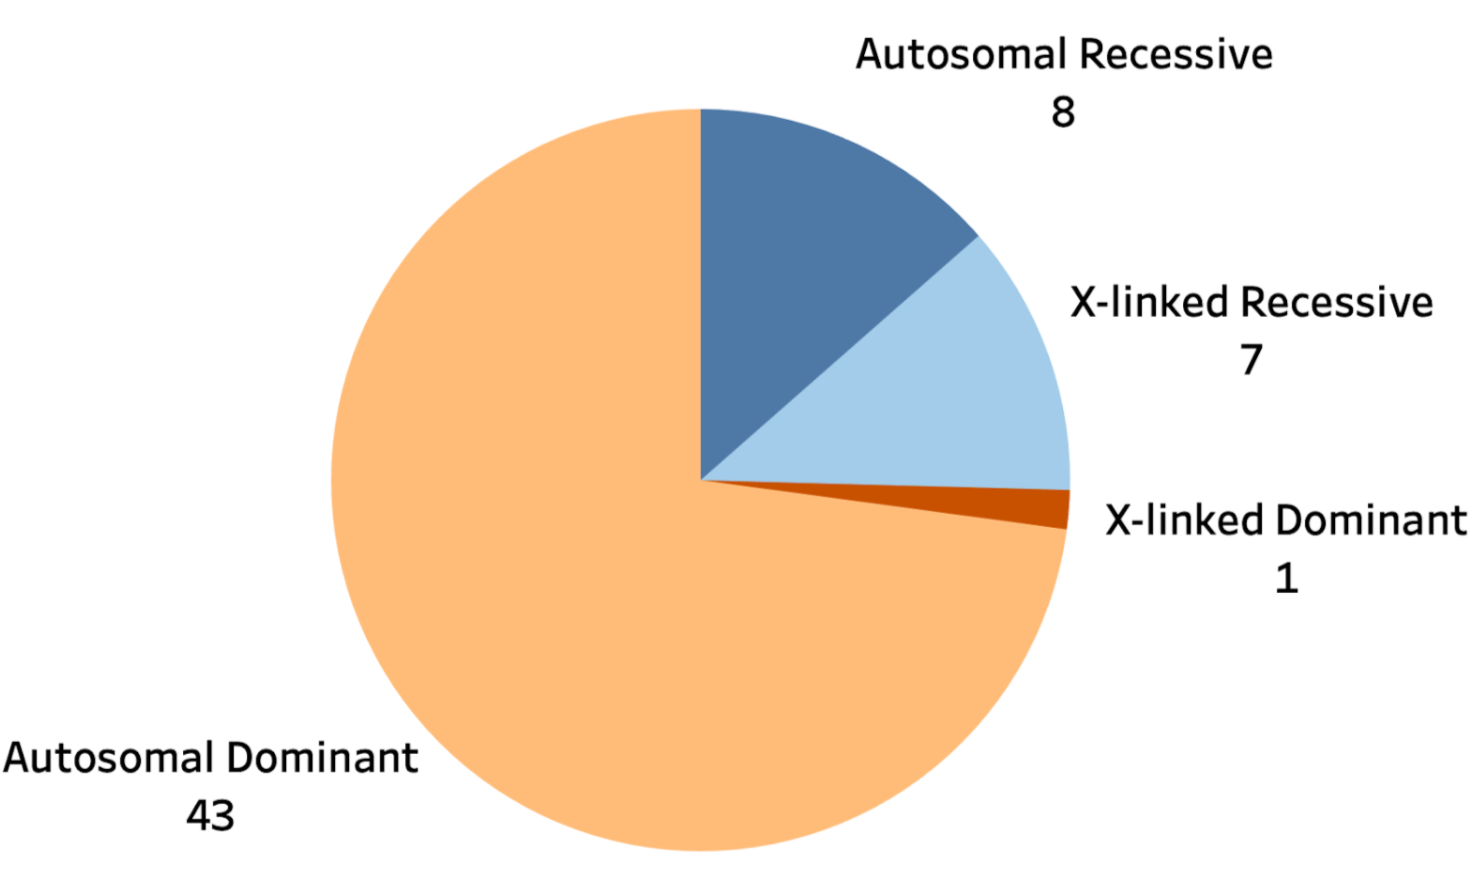
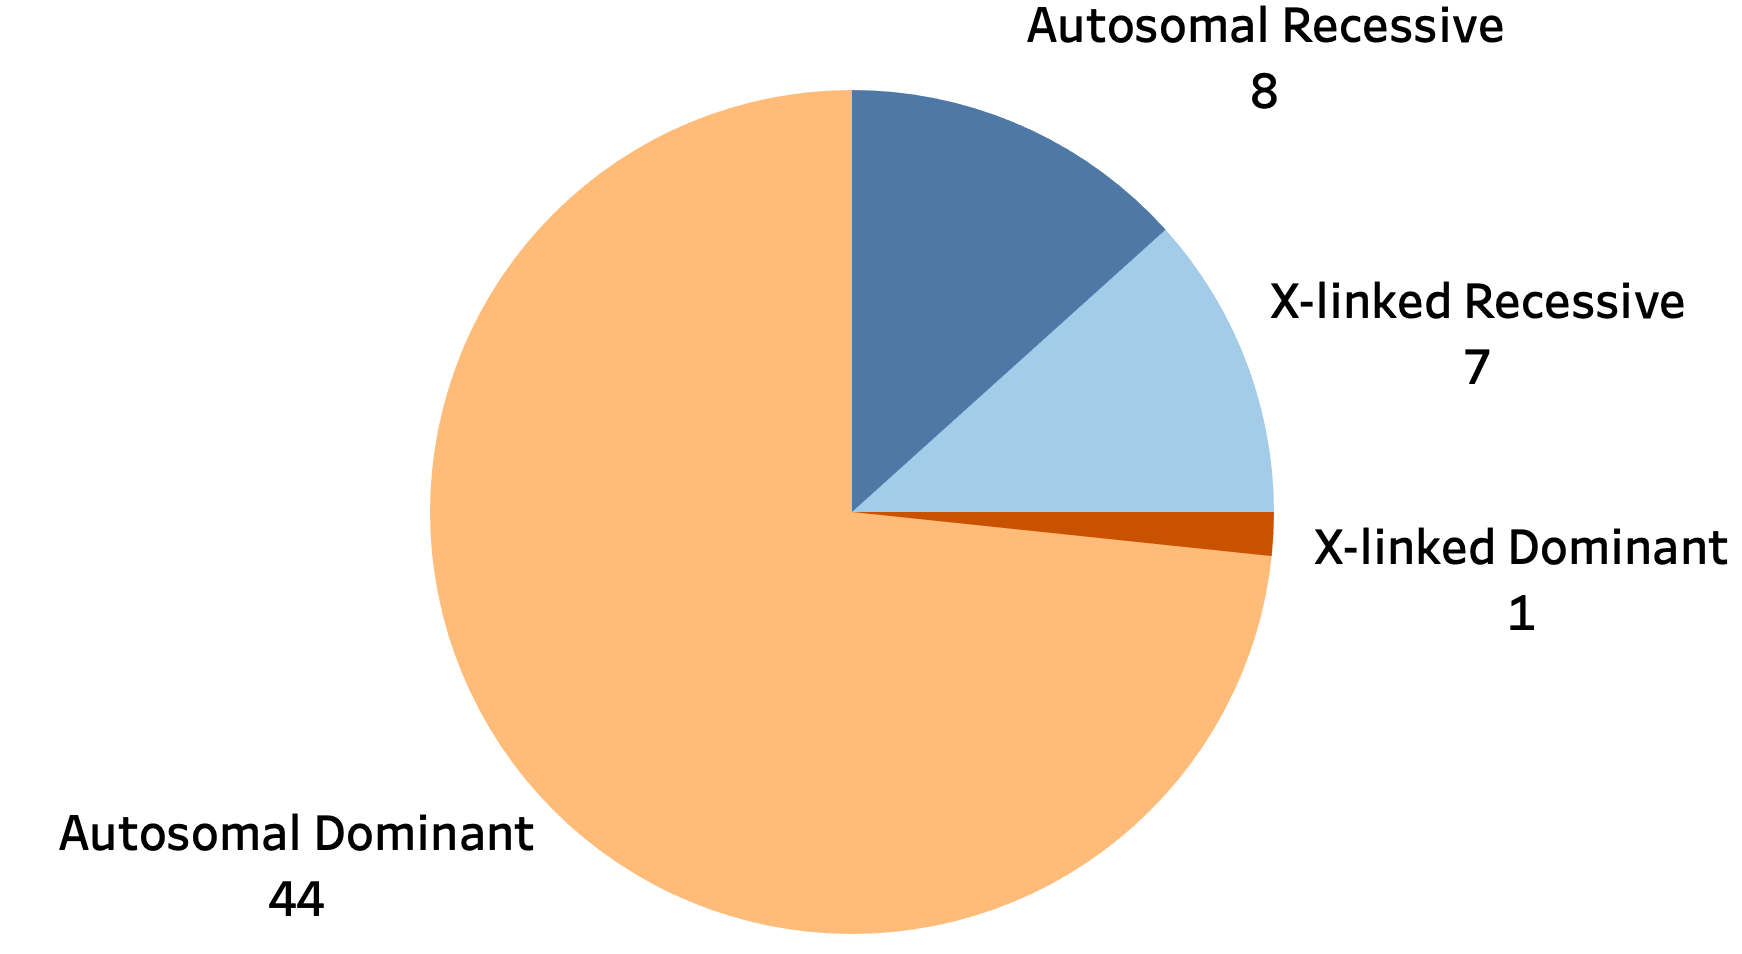
Update Post “2022-01-the-addition-of-short-tandem-repeat-calls-to-gnomad” (#71)

diff --git a/content/posts/2022-01-the-addition-of-short-tandem-repeat-calls-to-gnomad.md b/content/posts/2022-01-the-addition-of-short-tandem-repeat-calls-to-gnomad.md
@@ -1,5 +1,5 @@
 ---
-title: The Addition of Short Tandem Repeat Calls to gnomAD
+title: The Addition of Short Tandem Repeat Calls to gnomAD (v3.1.3)
 date: 2022-01-21
 order: 1
 categories:
@@ -11,14 +11,14 @@ authors:
 ---
 ### Overview
 
-We have generated short tandem repeat (STR) calls for 59 disease associated loci by running ExpansionHunter [[Dolzhenko 2019](https://academic.oup.com/bioinformatics/article/35/22/4754/5499079)] on 19,241 whole genome samples from gnomAD v3.1.
+We ran ExpansionHunter [[Dolzhenko 2019](https://academic.oup.com/bioinformatics/article/35/22/4754/5499079)] on 18,511 whole genome samples from gnomAD v3.1 to generate  calls for 60 disease associated repeat loci. These include 56 loci that have motifs between 3 and 6bp long and   are traditionally called short tandem repeats (STRs), as well as 4 other loci with longer motifs of between 10 and 24bp. For brevity, we refer to all 60 loci as "STRs" below. 
 
-This release includes:
+This minor release includes:
 
 * Distributions of STR genotypes in the general population, with subsets by ancestry group and sex
-* Visualizations of the read data for all samples at all 59 loci
+* Visualizations of the read data for all samples at all 60 loci
 * Collected reference information including disease associations and inheritance modes
-* [Downloadable variant catalogs](https://github.com/broadinstitute/str-analysis/tree/main/str_analysis/variant_catalogs) for running ExpansionHunter on these 59 loci for either GRCh38 or GRCh37, with or without off-target regions
+* [Downloadable variant catalogs](https://github.com/broadinstitute/str-analysis/tree/main/str_analysis/variant_catalogs) for running ExpansionHunter on these 60 loci for either GRCh38 or GRCh37, with or without off-target regions
 * A specialized approach for calling loci such as *RFC1* where the pathogenic motif(s) differ from the motif in the reference genome
 * [Downloadable data table](https://gnomad.broadinstitute.org/downloads#v3-short-tandem-repeats) containing all results displayed in the browser, as well as additional results such as genotypes generated using off-target regions
 
@@ -32,30 +32,30 @@ Short tandem repeats (STRs) are nucleotide sequences that consist of a short mot
 
 ### Disease-Associated Loci
 
-We collected and curated known pathogenic loci from sources such as [[Depienne 2021](https://pubmed.ncbi.nlm.nih.gov/33811808/)], [STRipy](https://stripy.org/database), [OMIM](https://www.omim.org/), and [GeneReviews](https://www.ncbi.nlm.nih.gov/books/NBK1116/). This yielded a catalog of 59 unique loci with the following characteristics:
+We collected and curated known pathogenic loci from sources such as [[Depienne 2021](https://pubmed.ncbi.nlm.nih.gov/33811808/)], [STRipy](https://stripy.org/database), [OMIM](https://www.omim.org/), and [GeneReviews](https://www.ncbi.nlm.nih.gov/books/NBK1116/). This yielded a catalog of 60 unique loci with the following characteristics:
 
 <figure>
-   <figcaption>STR Loci Inheritance Modes</figcaption>
+   <figcaption>Locus Inheritance Modes</figcaption>
    <img alt="STR Loci Inheritance Modes" src="../images/2022/01/str_inheritance_mode_pie_chart.png" height=280/>
 </figure>
 
 <figure>
-   <figcaption>STR Loci Genomic Regions</figcaption>
+   <figcaption>Locus Genomic Regions</figcaption>
    <img alt="STR Loci Genomic Regions" src="../images/2022/01/str_genomic_region_pie_chart.png" height=300 />
 </figure>
 
 <figure>
-   <figcaption>STR Loci Motif Sizes</figcaption>
+   <figcaption>Locus Motif Sizes</figcaption>
    <img alt="STR Loci Motif Sizes" src="../images/2022/01/str_motif_length_histogram.png" width=480 />
 </figure>
 
 ### Technical Details
 
-To genotype the 59 STR loci with disease associations, we chose to use ExpansionHunter [[Dolzhenko 2017](https://www.ncbi.nlm.nih.gov/pmc/articles/PMC5668946/)] because 1) we found that it had the best accuracy among existing tools for detecting expansions at disease-associated loci across a wide range of repeat sizes — both shorter and longer than read length, and 2) it’s now widely used for STR research and diagnosis in rare disease cohorts, including in [[Ibanez 2020](https://www.biorxiv.org/content/10.1101/2020.11.06.371716v1)], [[Stranneheim 2021](https://genomemedicine.biomedcentral.com/articles/10.1186/s13073-021-00855-5)], [[van der Sanden 2021](https://pubmed.ncbi.nlm.nih.gov/33846582/)].
+To genotype the 60 disease-associated repeat loci, we chose to use ExpansionHunter [[Dolzhenko 2017](https://www.ncbi.nlm.nih.gov/pmc/articles/PMC5668946/)] because 1) we found that it had the best accuracy among existing tools for detecting expansions at disease-associated loci across a wide range of repeat sizes — both shorter and longer than read length, and 2) it’s now widely used for STR research and diagnosis in rare disease cohorts, including in [[Ibanez 2020](https://www.biorxiv.org/content/10.1101/2020.11.06.371716v1)], [[Stranneheim 2021](https://genomemedicine.biomedcentral.com/articles/10.1186/s13073-021-00855-5)], [[van der Sanden 2021](https://pubmed.ncbi.nlm.nih.gov/33846582/)].
 
-In order to run ExpansionHunter on these 59 loci, we generated an ExpansionHunter [variant catalog](https://github.com/broadinstitute/str-analysis/tree/main/str_analysis/variant_catalogs) that specifies the reference coordinates and motif of each locus.
+In order to run ExpansionHunter on these 60 loci, we generated an ExpansionHunter [variant catalog](https://github.com/broadinstitute/str-analysis/tree/main/str_analysis/variant_catalogs) that specifies the reference coordinates and motif of each locus.
 
-We then ran an [I/O-optimized version](https://github.com/bw2/ExpansionHunter#note) of [ExpansionHunter v5](https://github.com/Illumina/ExpansionHunter) on the 19,241 gnomAD v3.1 samples for which the raw read data files were still available. We also ran [REViewer](https://github.com/Illumina/REViewer) to generate read visualizations for all samples at all 59 loci. Finally, we used python scripts in the [STR-analysis repo](https://github.com/broadinstitute/str-analysis) to aggregate results and generate the STR data file available for download.
+We then ran an [I/O-optimized version](https://github.com/bw2/ExpansionHunter#note) of [ExpansionHunter v5](https://github.com/Illumina/ExpansionHunter) on the 18,511 gnomAD v3.1 samples for which the raw read data files were still available. We also ran [REViewer](https://github.com/Illumina/REViewer) to generate read visualizations for all samples at all 60 loci. Finally, we used python scripts in the [STR-analysis repo](https://github.com/broadinstitute/str-analysis) to aggregate results and generate the STR data file available for download.
 
 ExpansionHunter gives users the option to specify off-target regions which allow it to more accurately estimate large expansion sizes beyond fragment length (> ~350bp). However, off-target regions also increase the chance that ExpansionHunter will overestimate some genotypes. For more information about off-target regions, see [[Dolzhenko 2017](https://pubmed.ncbi.nlm.nih.gov/28887402/)] and [[Mousavi 2019](https://www.ncbi.nlm.nih.gov/pmc/articles/PMC6735967/)]. In our experience with STR genotyping in rare disease cohorts, we have found that it is best to first run ExpansionHunter without off-target regions, even for loci such as *DMPK* or *C9orf72* where we see very large expansions. Although this produces underestimated genotypes in some highly-expanded samples, these genotypes still turn out to be outliers relative to other individuals in the cohort, and can therefore be flagged and re-genotyped later using off-target regions. After considering the trade-offs, we chose to display only the results generated without using off-target regions. However, we provide results from running ExpansionHunter both with and without off-target regions in the [downloadable data file](https://gnomad.broadinstitute.org/downloads#v3-short-tandem-repeats). Additionally, we share two sets of [variant catalogs](https://github.com/broadinstitute/str-analysis/tree/main/str_analysis/variant_catalogs) — both with and without off-target regions.
 
@@ -63,7 +63,7 @@ The dataset includes 12,372 (64%) PCR-free samples, 2,423 (13%) PCR-plus samples
 
 ### Loci with Non-Reference Pathogenic Motifs
 
-Nine out of the 59 STR loci are unusual in that they vary among individuals not just in the allele sizes, but also in the motifs present at the locus. These have been termed “replaced/nested” loci by [[Halman 2021](https://www.biorxiv.org/content/10.1101/2021.06.13.448220v1)]. Existing STR genotyping tools such as ExpansionHunter and GangSTR require users to pre-specify the motif, and so do not work well for loci where the motif can vary. Other tools such as [ExpansionHunterDenovo](https://genomebiology.biomedcentral.com/articles/10.1186/s13059-020-02017-z) do not have this limitation, but typically cannot distinguish samples that carry two different motifs from samples with a single motif on both alleles. For example, for the *RFC1* locus, the tools would have trouble distinguishing a sample that has a homozygous expansion of the AAGGG motif from a sample that has a short AAAAG repeat on one allele and a long AAGGG repeat on the other allele — a difference that is important for distinguishing carriers from affected individuals. 
+Nine out of the 60 repeat loci are unusual in that they vary among individuals not just in the allele sizes, but also in the motifs present at the locus. These have been termed “replaced/nested” loci by [[Halman 2021](https://www.biorxiv.org/content/10.1101/2021.06.13.448220v1)]. Existing STR genotyping tools such as ExpansionHunter and GangSTR require users to pre-specify the motif, and so do not work well for loci where the motif can vary. Other tools such as [ExpansionHunterDenovo](https://genomebiology.biomedcentral.com/articles/10.1186/s13059-020-02017-z) do not have this limitation, but typically cannot distinguish samples that carry two different motifs from samples with a single motif on both alleles. For example, for the *RFC1* locus, the tools would have trouble distinguishing a sample that has a homozygous expansion of the AAGGG motif from a sample that has a short AAAAG repeat on one allele and a long AAGGG repeat on the other allele — a difference that is important for distinguishing carriers from affected individuals. 
 As a temporary solution, we addressed these limitations by developing  [call_non_ref_pathogenic_motifs.py](https://github.com/broadinstitute/str-analysis/blob/main/str_analysis/call_non_ref_pathogenic_motifs.py). This script  first detects the one or two motifs present at each of these loci in a given individual and then runs ExpansionHunter for each motif to estimate its allele size as well as REViewer to generate read visualizations. The approach used by this script to detect motifs is, coincidentally, a simpler version of the approach used by the recently-released [STRling](https://www.biorxiv.org/content/10.1101/2021.11.18.469113v1) tool. Unbiased comparisons are difficult given that we have a small number of positive controls and designed the script based on the positive controls we had available. However, we found that the script had slightly better sensitivity than STRling on positive *RFC1* controls while maintaining high specificity. Additionally, it allowed us to generate read visualizations in a way not currently possible with other tools. A more detailed description of the script is available on [GitHub](https://github.com/broadinstitute/str-analysis) and in a separate [blog post](https://bw2.github.io/).
 
 ### Read Visualizations
@@ -72,7 +72,7 @@ We used the [REViewer tool](https://www.illumina.com/science/genomics-research/a
 
 ### Navigating STR Pages in the gnomAD Browser
 
-The [STR table](https://gnomad.broadinstitute.org/short-tandem-repeats?dataset=gnomad_r3) is the best place to start for exploring the STR data. It contains the list of 59 disease-associated loci, their repeat motif, genomic region, inheritance mode, and disease association(s).
+The [STR table](https://gnomad.broadinstitute.org/short-tandem-repeats?dataset=gnomad_r3) is the best place to start for exploring the STR data. It contains the list of 60 disease-associated loci, their repeat motif, genomic region, inheritance mode, and disease association(s).
 
 <img alt="PABPN1 Page Top Section Screenshot" src="../images/2022/01/str_list_page_screenshot.png" />
 
@@ -114,7 +114,7 @@ Looking at the reads supporting the pathogenic *PABPN1* genotypes, we see that t
 
 <img alt="PABPN1 Readviz Example #1" src="../images/2022/01/str_PABPN1_page_read_data_full_svg_image_example.svg" />
 
-This suggests that most or all reads supporting the long allele are misaligned, and that the genotype is very likely to be incorrect (see [**Supplemental Details**](#supplemental-details-for-examining-read-visualizations) for more information).
+This suggests that most or all reads supporting the long allele are misaligned, and that the genotype is very likely to be incorrect (see **[Supplemental Details](#supplemental-details-for-examining-read-visualizations)** for more information).
 
 Clicking the “Next Sample” button, we see subsequent samples also have questionable alignments underlying their long allele sizes. In some cases, the reads are full of mismatches rather than deletions, but the conclusion is the same. By reviewing these images, we find that all alleles > 9 repeats are likely to be technical artifacts. Only when we reach the 6/9 genotypes do we find several well supported 9-repeat alleles with multiple spanning read alignments that lack mismatches or indels:
 
@@ -162,3 +162,12 @@ Below we describe visual features of [REViewer](https://www.illumina.com/science
 ▪ Soft-clipped bases appear at the beginning or end of a read and represent bases that the aligner considered to be unaligned. They appear as a string of mismatches at the end of a read (like in IGV): <span><img  src="../images/2022/01/str_supplementary_section_inline_image4_soft_clips.png" width=125 /></span>. As with deletions, the presence of soft-clipped bases may indicate poor quality alignments and therefore point to an overestimated expansion size. However, in some cases they may suggest an underestimate instead. For example, the three reads showing additional CAGs in their soft-clipped bases below hint that the true genotype may be longer than 47 x CAG. Indeed, PCR confirmed the true genotype to be 54 x CAG in this sample [[full image](https://broadinstitute.github.io/StrPileups/page_GE_case80.html)]:
 
   <span><img alt="Readviz Example: Soft Clips" src="../images/2022/01/str_supplementary_section_full_image4_soft_clips.png" /></span>
+
+<br /><br /><br />
+
+*July 2022 Update:*
+
+* *Removed 732 samples with 100bp read lengths which were inadvertently included in the initial release and kept only the 18,511 samples that have 150bp read lengths.* 
+* *Added data for the RILPL1 locus which was recently published as associated with* oculopharyngodistal myopathy type 4 *(*OPDM*) [[Yu 2022](https://pubmed.ncbi.nlm.nih.gov/35148830/)].*
+
+*<br /><br />*
